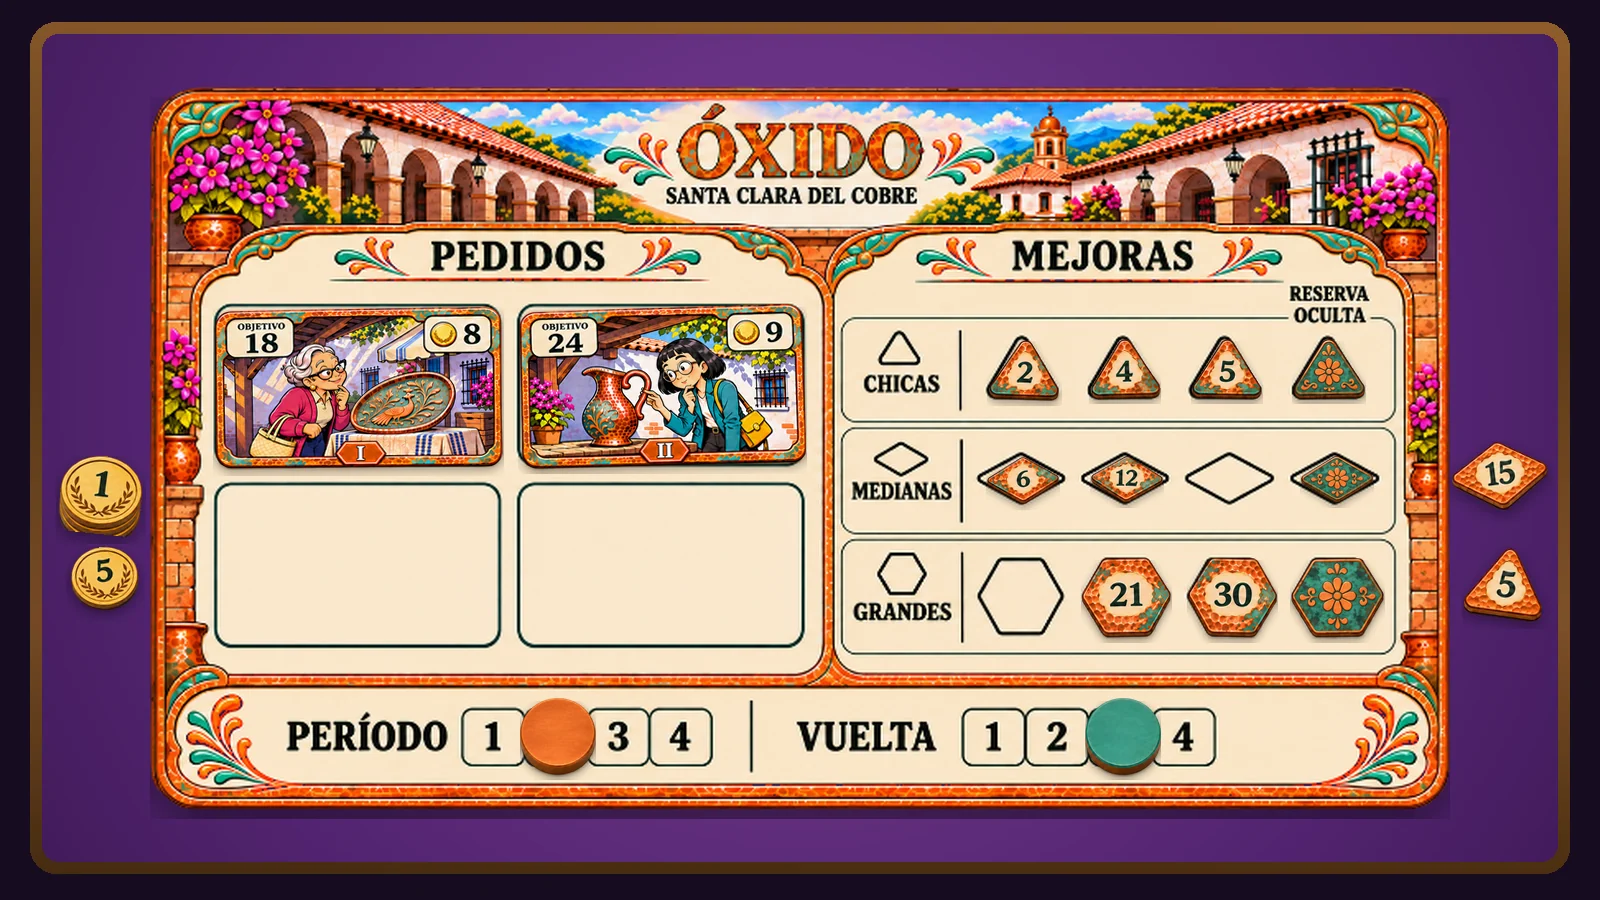
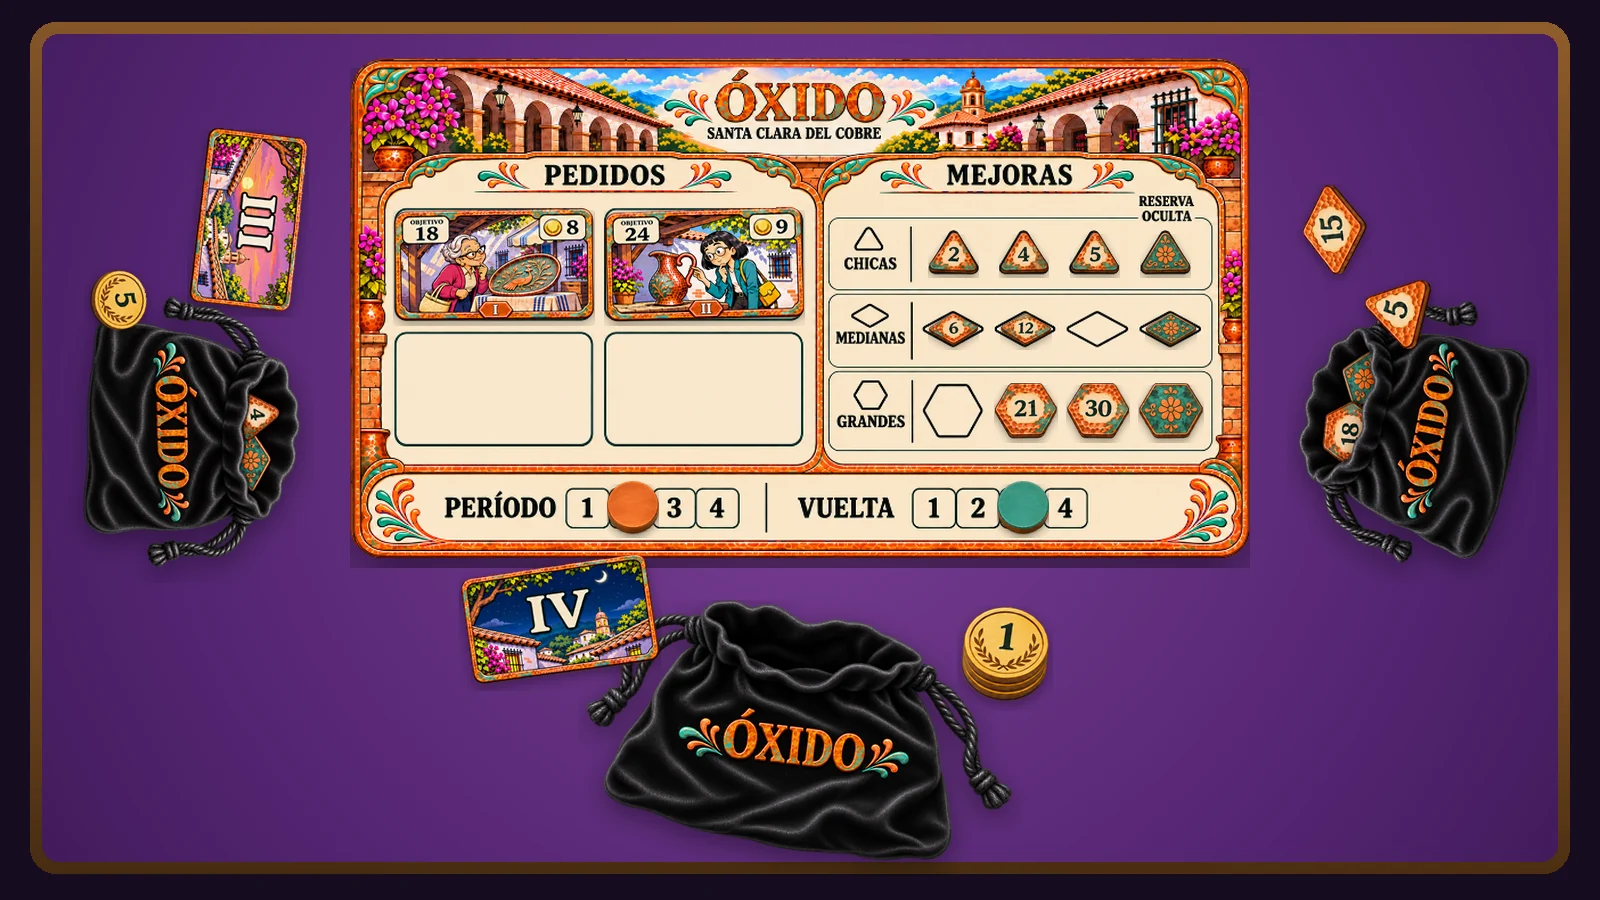
feat(oxido): suma las bolsas, el cómo se juega y fuentes propias
Óxido agrega las Bolsas de Terciopelo (c) y una mesa con tres zonas de
jugador, fotos en los tres pasos y la inspiración en es y en. El título
pasa a Rufina + Literata. En todas las fichas, el paso lleva número y
título en una línea, y la caja de versión dice fijo «Versión Actual».
Se suma docs/PROTOCOLO_PROTO.md.

diff --git a/src/lib/caja-fonts.ts b/src/lib/caja-fonts.ts
@@ -1,3 +1,3 @@
 /** Google Fonts de las cajitas del portafolio. Una hoja, títulos + subtítulos. */
 export const CAJA_FONTS_URL =
-  'https://fonts.googleapis.com/css2?family=Baloo+2:wght@700&family=Bangers&family=Bebas+Neue&family=Bubblegum+Sans&family=Bungee&family=Cardo:wght@700&family=Cinzel:wght@700&family=Cormorant+Garamond:ital,wght@0,700;1,500&family=Fraunces:ital,wght@0,600;1,400&family=Fredoka:wght@600&family=IM+Fell+English:ital@0;1&family=Josefin+Sans:ital,wght@0,700;1,400&family=Lora:wght@700&family=Nunito:ital,wght@0,600;0,700;0,800;1,500;1,600&family=Oswald:ital,wght@1,400&family=Quicksand:wght@700&family=Raleway:wght@700&family=Patrick+Hand&family=Playfair+Display:ital,wght@0,700;1,400&family=Shantell+Sans:ital,wght@0,700;1,400&family=Shippori+Mincho:wght@700&family=Spectral:wght@700&family=Yeseva+One&family=Zen+Maru+Gothic:wght@500&display=swap';
+  'https://fonts.googleapis.com/css2?family=Baloo+2:wght@700&family=Bangers&family=Bebas+Neue&family=Bubblegum+Sans&family=Bungee&family=Cardo:wght@700&family=Cinzel:wght@700&family=Cormorant+Garamond:ital,wght@0,700;1,500&family=Fraunces:ital,wght@0,600;1,400&family=Fredoka:wght@600&family=IM+Fell+English:ital@0;1&family=Josefin+Sans:ital,wght@0,700;1,400&family=Literata:ital,wght@1,400;1,600&family=Lora:wght@700&family=Nunito:ital,wght@0,600;0,700;0,800;1,500;1,600&family=Oswald:ital,wght@1,400&family=Quicksand:wght@700&family=Raleway:wght@700&family=Rufina:wght@700&family=Patrick+Hand&family=Playfair+Display:ital,wght@0,700;1,400&family=Shantell+Sans:ital,wght@0,700;1,400&family=Shippori+Mincho:wght@700&family=Spectral:wght@700&family=Yeseva+One&family=Zen+Maru+Gothic:wght@500&display=swap';

diff --git a/src/i18n/fichas/ficha.ts b/src/i18n/fichas/ficha.ts
@@ -15,8 +15,7 @@ export const ficha = {
     filesTitle: 'Archivos',
     bgg: 'BoardGameGeek',
     devTitle: 'En qué estamos',
-    devVersion: 'Versión',
-    devAdjusting: 'Ajustando',
+    devVersion: 'Versión Actual',
     devNext: 'Próximas pruebas',
     awards: 'Premios y reconocimientos',
     awardLink: 'Mira el premio',
@@ -46,8 +45,7 @@ export const ficha = {
     filesTitle: 'Files',
     bgg: 'BoardGameGeek',
     devTitle: 'Where we are',
-    devVersion: 'Version',
-    devAdjusting: 'Tuning',
+    devVersion: 'Current version',
     devNext: 'Next playtests',
     awards: 'Awards and recognition',
     awardLink: 'See award',

diff --git a/src/styles/ficha.css b/src/styles/ficha.css
@@ -604,26 +604,23 @@ body.ficha-page[data-on-primary="tinta"] {
 }
 
 .ficha-step-num {
-  display: block;
-  margin-bottom: .25rem;
-  color: var(--ficha-muted);
-  font-size: .78rem;
-  font-weight: 800;
+  margin-right: .35em;
 }
 
 .ficha-step h3 {
-  margin: 0 0 .4rem;
+  margin: 0 0 .45rem;
   font-family: var(--ficha-title-font);
-  font-size: 1.08rem;
+  font-size: 1.22rem;
   font-weight: 700;
   letter-spacing: -.02em;
+  line-height: 1.2;
   color: var(--ficha-navy);
 }
 
 .ficha-step p {
   margin: 0;
   color: var(--ficha-dim);
-  font-size: .86rem;
+  font-size: .98rem;
   line-height: 1.5;
 }
 

diff --git a/src/lib/ficha-review.ts b/src/lib/ficha-review.ts
@@ -62,7 +62,7 @@ type Slot = Array<string | number>;
 function slotText(ficha: FichaContent, parts: Slot, locale: Lang): string | undefined {
   const ui = fichaCopy[locale];
   const [kind, index, field] = parts;
-  if (kind === 'devVersionTitle') return ficha.version ? `${ui.devVersion} ${ficha.version}` : ui.devAdjusting;
+  if (kind === 'devVersionTitle') return ui.devVersion;
   if (kind === 'devAdjusting') return ficha.adjusting;
   if (kind === 'devNextTitle') return ui.devNext;
   if (kind === 'devNextBody') return ficha.nextPlaytests;

diff --git a/src/content/games/oxido.md b/src/content/games/oxido.md
@@ -62,8 +62,8 @@ palette:
   - '#A7461E'
   - '#1C3831'
 fichaMode: light
-titleFont: Fredoka, sans-serif
-taglineFont: Nunito, sans-serif
+titleFont: Rufina, serif
+taglineFont: Literata, serif
 bodyFont: Nunito, sans-serif
 bodyColor: ''
 mutedColor: ''
@@ -81,8 +81,8 @@ conceptos:
   - Portada de surrealismo fotográfico donde una mina se convierte en cuenco; web en verdes de pátina con acentos naranja cobre. El prototipo conserva humor gráfico de tinta expresiva y personajes consistentes de gestos amables.
   - Construcción de bolsa, extracción táctil por tamaño, combinación de valores para encargos compartidos y mejora de muestras entre períodos.
 imageCaption: Arte conceptual · Del mineral al oficio
-pitchTitle: Un taller entre el brillo y la pátina
-pitch: Óxido se inspira en los patios, talleres y comercios de Santa Clara del Cobre. Cada persona lleva su propio taller, pero los clientes están a la vista de todos. Durante cuatro eras, representadas por la mañana, el mediodía, el atardecer y la noche, decides qué muestras preparar, qué encargos entregar y cuánto reinvertir. Al cierre, gana quien haya reunido más dinero.
+pitchTitle: El juego Óxido nace porque me llamó la atención la palabra, y comencé a explorar la forma en que los metales generan pátinas y cómo este proceso funciona como mecánica.
+pitch: Naturalmente, quise mostrar el proceso artesanal de trabajar el cobre y crear diseños usando la pátina como elemento visual. El mercado de compradores y pedidos es una forma sencilla de explicar la competencia entre los jugadores y la decisión de refinar el producto pero quizás perder una venta, o vender rápido pero sacrificando calidad.
 buyUrl: ''
 ctaHref: ''
 rulesUrl: ''
@@ -95,24 +95,27 @@ nextPlaytests: La primera configuración de prueba está preparada para dos pers
 howTo:
   - title: Prepara tus muestras
     body: Elige al tacto un tamaño de ficha dentro de tu bolsa y revela su valor. Los triángulos, rombos y hexágonos distinguen las tres categorías. Las muestras extraídas quedan disponibles en tu taller para combinarlas después.
-    image: ''
-    imageAlt: ''
+    image: /assets/oxido-paso-muestras.webp?v=1
+    imageAlt: Una mano saca un triángulo 5 de la bolsa de Óxido; al lado quedan un 2, un rombo 15 y un hexágono 24.
+    imageAltEn: A hand draws a triangle 5 from the Óxido bag; a 2, a diamond 15, and a hexagon 24 sit beside it.
     bodyEn: Choose a token size by touch inside your bag and reveal its value. Triangles, rhombuses, and hexagons distinguish the three categories. Drawn samples stay available in your workshop to combine later.
     titleEn: Prepare your samples
   - title: Encuentra la combinación
     body: Suma los valores de las muestras que quieras usar para un encargo visible. Cuanto más te acerques al objetivo, mejor cobras. Puedes entregar sin acertar exactamente, pero otro taller puede atender al cliente antes que tú.
-    image: ''
-    imageAlt: ''
+    image: /assets/oxido-paso-combinacion.webp?v=2
+    imageAlt: Encargo de objetivo 18 junto a un rombo 15 y un triángulo 3, con monedas de 1, 5 y 10.
+    imageAltEn: An order with a target of 18 beside a diamond 15 and a triangle 3, with coins of 1, 5, and 10.
     bodyEn: Add the values of whichever samples you want to use for a visible order. The closer you get to the target, the more you earn. You can deliver without an exact match, but another workshop may serve the customer first.
     titleEn: Find your combination
   - title: Invierte en el próximo período
     body: Las muestras gastadas esperan fuera de la bolsa hasta el próximo período. Paga para sustituirlas por otras de la misma categoría y preparar mejores combinaciones. Decide cuánto mejorar y cuánto dinero conservar para el final.
-    image: ''
-    imageAlt: ''
+    image: /assets/oxido-paso-periodo.webp?v=2
+    imageAlt: Una mano deja un triángulo 3 en el mercado de mejoras; la otra sostiene monedas de 1, y en la mesa hay un 5 y monedas de 1, 5 y 10.
+    imageAltEn: A hand places a triangle 3 on the upgrade market; the other holds coins of 1, with a 5 and coins of 1, 5, and 10 on the table.
     bodyEn: Spent samples wait outside your bag until the next period. Pay to replace them with others in the same category and prepare better combinations. Decide how much to improve and how much money to keep for the end.
     titleEn: Invest in the next period
-componentsPhoto: /assets/oxido-mesa-montaje.webp?v=5
-componentsPhotoAlt: 'Partida de Óxido sobre paño violeta: dos pedidos en el tablero, mejoras en el mercado y marcadores en el período 2 y la vuelta 3.'
+componentsPhoto: /assets/oxido-mesa-montaje.webp?v=7
+componentsPhotoAlt: 'Partida de Óxido sobre paño violeta: el tablero al centro y tres bolsas de jugador, con cartas y fichas sueltas.'
 componentsNote: ''
 components:
   - qty: '1'
@@ -157,10 +160,17 @@ components:
     image: /assets/oxido-comp-marcadores.webp?v=2
     imageAlt: 'Marcadores de período y vuelta de Óxido sobre paño violeta: uno de cobre y uno turquesa.'
     imageAltEn: 'Óxido period and turn markers on violet felt: one copper and one turquoise.'
+  - qty: '4'
+    name: Bolsas de Terciopelo (c)
+    nameEn: Velvet Bags (c)
+    icon: token-bag
+    image: /assets/oxido-comp-bolsas.webp?v=2
+    imageAlt: 'Cuatro bolsas de terciopelo negro de Óxido sobre paño violeta: dos vacías y dos con fichas asomando.'
+    imageAltEn: 'Four black Óxido velvet bags on violet felt: two empty, and two with tokens peeking out.'
 resources: []
 credits: Óxido · Diseño de juego y dirección visual · Estudio Alpargatas
 adjustingEn: The core rules are defined and the visual identity has a clear direction. We are refining the relationship between sample values, payments, and upgrades. The scenes and components shown here are concept proposals; the final component list remains open.
-componentsPhotoAltEn: 'Óxido game on violet felt: two orders on the board, upgrades in the market, and markers on period 2 and turn 3.'
+componentsPhotoAltEn: 'Óxido game on violet felt: the board in the center and three player bags, with cards and loose tokens.'
 creditsEn: Óxido · Game design and visual direction · Estudio Alpargatas
 descriptionEn: Combine copper samples, fill orders before your rivals, and improve what comes out of your bag. Precision pays better, but an imperfect delivery can still be a good decision.
 factsEn:
@@ -171,7 +181,7 @@ imageAltEn: An open-pit mine gradually transforms into a chased copper bowl with
 imageCaptionEn: Concept art · From ore to craft
 metaEn: Copper · Orders · Bag building
 nextPlaytestsEn: The first test configuration is prepared for two players. We want to observe competition for orders, the pace of upgrades, and the value of delivering without an exact match. The goal is 2–4 players and 30–45 minute games; both parameters still need validation.
-pitchEn: Óxido draws inspiration from the courtyards, workshops, and shops of Santa Clara del Cobre. Each player runs a workshop, while customers are shared by everyone. Across four eras, represented by morning, midday, sunset, and night, you decide which samples to prepare, which orders to deliver, and how much to reinvest. At the end, the player with the most money wins.
-pitchTitleEn: A workshop between shine and patina
+pitchEn: Naturally, I wanted to show the craft of working copper and of making designs that use patina as a visual element. A market of buyers and orders is a simple way to explain the competition between players, and the choice to refine the product and maybe lose a sale, or to sell fast while sacrificing quality.
+pitchTitleEn: Óxido was born because the word caught my attention, and I started exploring how metals grow a patina and how that process works as a mechanic.
 taglineEn: Copper changes. So does your workshop.
 ---

diff --git a/docs/PROTOCOLO_PROTO.md b/docs/PROTOCOLO_PROTO.md
@@ -1,0 +1,95 @@
+# Protocolo de un proto nuevo
+
+Para cuando entra un juego que todavía no está publicado. La ficha nueva sale solo del CMS: `src/content/games/<keyword>.md`. No se crea `src/pages/juegos/<keyword>/` ni se copia nada desde `/juegos/old/` o `src/i18n/fichas/`.
+
+Keyword: una palabra ASCII en minúsculas (`oxido`, `reloj`). La URL es `/juegos/<keyword>` y `/en/juegos/<keyword>`.
+
+Estado de un proto: `pruebas`, `boceto` o `idea`. `publicado` apaga el bloque «En qué estamos», cambia el CTA a compra y **saca el juego del tarot**.
+
+## Mínimo para que el build no se caiga
+
+Sin estos campos el markdown no entra en la colección:
+
+| Campo | Notas |
+|---|---|
+| `keyword`, `name`, `emoji` | El keyword es el nombre del archivo. |
+| `tagline`, `meta` | El subtítulo se ve en la ficha, el portafolio y el tarot. |
+| `state`, `stateLabel`, `stateOrder`, `date` | |
+| `bg`, `titleColor`, `taglineColor` | Siguen en el CMS. La ficha no los pinta; usa `palette`. |
+| `palette` | Exactamente 4 colores. Ver [PALETAS_FICHA.md](./PALETAS_FICHA.md). |
+| `titleFont` | Familia del título. Ver fuentes, abajo. |
+| `conceptos` | Tres strings: temática, estilo visual, mecánicas. Brief de imágenes. No se muestra. |
+
+`fichaMode` default `light`. `taglineFont` default Georgia si falta; no dejarlo así en un proto que ya se enseña.
+
+## Mínimo de la ficha
+
+Cada texto visible va en español y en inglés (`*En`). Lo que todavía no está escrito se deja vacío: ver Lorem.
+
+| Bloque | Qué tiene que haber | Qué puede esperar |
+|---|---|---|
+| Héroe | Nombre, subtítulo, estado, arte `concepto-<keyword>.webp` | Edad, duración, jugadores, solo si ya están decididos. La edad no se inventa. |
+| En qué estamos | Párrafos `adjusting` y `nextPlaytests` | Los títulos son fijos: **Versión Actual** y **Próximas pruebas**. El número de `version` no se muestra. |
+| Inspiración | `pitchTitle` + `pitch` | Los dos, o ninguno. Con uno solo la franja no aparece. |
+| Cómo se juega | Hasta 3 pasos, título y cuerpo | La plantilla pinta solo los tres primeros. |
+| Componentes | Cantidad, nombre ES/EN, icono de `comp-icons.ts` | Mesa y detalle cuando haya arte. El `(c)` en el nombre marca arte conceptual, en los dos idiomas. |
+| Galería | Fotos de mesa o de concepto, con pie | |
+| Archivos | | Manual e imprimible van aparte, cada uno con URL ES y URL EN. No hay fallback de un idioma al otro. |
+| Cocreación | | El pill sale solo si hay nombre y URL. |
+
+Premios vacíos están bien: en Revisiones se lee «Listo · 0».
+
+El pie del arte conceptual es común a todas las fichas («Arte conceptual · Exploración visual»). No se cambia por juego.
+
+## Texto que todavía no existe
+
+No se escribe copy de relleno que parezca definitivo. Un hueco vacío lo tapa la plantilla con Lorem ipsum.
+
+Un texto nuevo y no vacío se muestra tal cual, y en Revisiones esa celda puede pasar a Listo si todos los huecos de la columna están así en los dos idiomas. Por eso el dummy no se tipea: se deja el campo en blanco.
+
+No regenerar `src/lib/ficha-lorem-baseline.ts`. Esa foto es la que decide si un texto viejo sigue tapado.
+
+## Imágenes
+
+WebP, calidad ~86. Al reemplazar una que ya estaba publicada, subir `?v=` solo en esa URL.
+
+| Uso | Export | Cómo entra en la página |
+|---|---|---|
+| Arte conceptual, héroe y portafolio | **1200×800** (3:2) | `public/assets/concepto-<keyword>.webp`. El campo `image` del CMS es el del portafolio; el héroe de la ficha usa siempre el archivo `concepto-`. |
+| Cómo se juega | **1200×900** (4:3) | `howTo[].image`. El marco recorta con `object-fit: cover`. |
+| Mesa de componentes | **1600×900** (16:9) | `componentsPhoto`. Partida en curso, no el setup inicial. Riel de madera y fieltro del juego. Gramática en [MONTAJES.md](./MONTAJES.md). |
+| Detalle de un componente | **1600×900** (16:9) | `components[].image`. Mismo fieltro, a sangre, sin riel. |
+| Galería | La proporción del arte | `fotos`. Se muestra entera (`contain`), sin recorte. Tope de alto `min(85vh, 52rem)`. |
+| Icono de componente | El set existente | Slug en `components[].icon`. Sin icono cae en `tokens-stack`. |
+
+## Fuentes
+
+El título no repite la familia de otro juego. El cuerpo sigue en Nunito, salvo una excepción justificada (hoy solo Amateurasu).
+
+1. Mirar la tabla de [FUENTES_JUEGOS.md](./FUENTES_JUEGOS.md).
+2. Si la familia no está en `src/lib/caja-fonts.ts`, sumarla a `CAJA_FONTS_URL` con el peso que la ficha usa (el título va en 700).
+3. Anotar el par nuevo en esa tabla, en el mismo cambio.
+
+## Revisiones
+
+`/revisiones` no está en el menú y lleva `noindex`. La fila no se agrega a mano: aparece al existir el markdown.
+
+Todo lo que no se aprobó queda Pendiente. No se marca Listo en código para «salir del paso». Una celda pasa a Listo cuando el texto ya no está bajo Lorem en español y en inglés, o cuando las imágenes de ese bloque están en la lista que Arturo dio por cerrada.
+
+## Tarot
+
+La portada no crea una carta nueva. Los 22 arcanos ya están. Un proto entra en la recomendación así:
+
+1. `state` distinto de `publicado`. Un publicado nunca se recomienda, aunque figure en una carta.
+2. El keyword se agrega a `games` de los arcanos que le hagan sentido, en `src/lib/tarot.ts`. Cada carta tiene tres afinidades: la primera suma 3, la segunda 2, la tercera 1. Las tres cartas de la tirada cuentan.
+3. Si el keyword no está en ningún arcano, la tirada no lo elige.
+
+No hace falta arte de tarot por juego. Las cartas son las de `public/assets/tarot/` (600×900). Detalle en [TAROT.md](./TAROT.md).
+
+El portafolio lista solo con que el markdown exista. El campo `home` (`featured`, `proto`, `none`) se guarda, pero la portada actual no lo usa para armar una fila.
+
+## Al cerrar
+
+- `npm run build` incluye `/juegos/<keyword>` y `/en/juegos/<keyword>`.
+- Mirar la ficha en local: http://127.0.0.1:4321/juegos/<keyword>
+- No hacer deploy. Subir a `main` publica producción.

diff --git a/docs/FUENTES_JUEGOS.md b/docs/FUENTES_JUEGOS.md
@@ -4,23 +4,24 @@ No copiamos pareos de [Fontpair](https://fontpair.co/all) uno a uno: casi nunca 
 
 ## Reglas de pareo
 
-1. **Cuerpo (`bodyFont`)** — casi siempre **Nunito** (legible, neutral). Excepciones: juego JP → **Zen Maru Gothic** (Amateurasu).
-2. **Display / cartoon / condensed** (Bungee, Bubblegum, Fredoka, Baloo 2, Bebas)  
+1. **El título no repite la familia de otro juego.** Antes de elegir, mirar la tabla de abajo. El tagline puede compartir Nunito o Cormorant; el título, no.
+2. **Cuerpo (`bodyFont`)** — casi siempre **Nunito** (legible, neutral). Excepciones: juego JP → **Zen Maru Gothic** (Amateurasu).
+3. **Display / cartoon / condensed** (Bungee, Bubblegum, Fredoka, Baloo 2, Bebas)  
    - Tagline: **Oswald** si el título es apretado/impacto; si no, **Nunito**.  
    - Cuerpo: Nunito.
-3. **Serif display / editorial** (Playfair, Yeseva, Cinzel, Cormorant título)  
+4. **Serif display / editorial** (Playfair, Yeseva, Cinzel, Cormorant título)  
    - Tagline: **Cormorant Garamond** (misma vibra editorial, más fino).  
    - Cuerpo: Nunito.
-4. **Serif texto** (Spectral, Lora, Cardo, Fraunces)  
+5. **Serif texto** (Spectral, Lora, Cardo, Fraunces)  
    - Tagline: misma familia **o** Cormorant si el título ya es “text serif” (Spectral, Cardo).  
    - Cuerpo: Nunito.
-5. **Sans geométrico / humanista título** (Raleway, Josefin, Quicksand)  
+6. **Sans geométrico / humanista título** (Raleway, Josefin, Quicksand)  
    - Tagline: Cormorant (contraste serif) o Nunito (stack limpio).  
    - Cuerpo: Nunito.
-6. **Heritage / manuscrito** (IM Fell, Shantell)  
+7. **Heritage / manuscrito** (IM Fell, Shantell)  
    - Tagline: **Josefin Sans** (Fell) o **Patrick Hand** (doodle / Evoluciona).  
    - Cuerpo: Nunito.
-7. **JP** — Shippori Mincho + Zen Maru (tagline y cuerpo).
+8. **JP** — Shippori Mincho + Zen Maru (tagline y cuerpo).
 
 ## Tabla por keyword
 
@@ -40,7 +41,7 @@ No copiamos pareos de [Fontpair](https://fontpair.co/all) uno a uno: casi nunca 
 | mantas | Josefin Sans | Nunito | Nunito |
 | ninive | Cormorant Garamond | Cormorant Garamond | Nunito |
 | nudis | Lora | Lora | Nunito |
-| oxido | Fredoka | Nunito | Nunito |
+| oxido | Rufina | Literata | Nunito |
 | palomas | Bebas Neue | Oswald | Nunito |
 | pavoneo | Playfair Display | Cormorant Garamond | Nunito |
 | piramisu | Yeseva One | Cormorant Garamond | Nunito |

diff --git a/docs/MONTAJES.md b/docs/MONTAJES.md
@@ -95,8 +95,8 @@ Misma gramática y mismo fieltro que Canes: cuatro jugadores, mazo, descarte en 
 | Nínive | `ninive-mesa-montaje.webp?v=4` | palacio, segundo jugador |
 | Letrados | `letrados-mesa-montaje.webp?v=3` | letras `?v=4`; torres de 4, manos de 2, esquinas redondas; el detalle va sin riel |
 | Carcinogenial | `carcinogenial-mesa-montaje.webp?v=5` | cartas `?v=3`, acción, inyección, ayuda |
-| Óxido | `oxido-mesa-montaje.webp?v=5` | tablero `?v=3`, pedidos, iniciales, mejoradas, dinero, marcadores `?v=2` |
+| Óxido | `oxido-mesa-montaje.webp?v=7` | tablero `?v=3`, pedidos, iniciales, mejoradas, dinero, marcadores `?v=2`, bolsas `?v=2` |
 
 Evoluciona tiene conteos en el overlay (97 / 4 / 4 / 2) y todavía no tiene montaje.
 
-Óxido salió de PNG ya recortados (`~/Downloads/oxido-componentes-sin-fondo-1600x900`). La mesa usa el tablero ancho: los huecos de pedido y los rombos calzan con la pieza. Pedidos I y II ocupan el hueco, el mercado va a medias y la columna de reserva oculta muestra los reversos con pátina. Marcador de período en el 2 y el de vuelta en el 3. Dinero y muestras 5 y 15 a los costados. El detalle de cada componente va sobre el mismo violeta, sin riel.
+Óxido salió de PNG ya recortados (`~/Downloads/oxido-componentes-sin-fondo-1600x900`). La mesa usa el tablero ancho: los huecos de pedido y los rombos calzan con la pieza. Pedidos I y II ocupan el hueco, el mercado va a medias y la columna de reserva oculta muestra los reversos con pátina. Marcador de período en el 2 y el de vuelta en el 3. Alrededor van tres bolsas surtidas, cada una con carta o fichas sueltas, como zona de jugador. El detalle de las bolsas muestra las cuatro, dos vacías y dos con fichas. El resto de los detalles va sobre el mismo violeta, sin riel.

diff --git a/docs/FICHAS.md b/docs/FICHAS.md
@@ -73,6 +73,8 @@ Viven en `src/styles/global.css` y se repiten en `ficha.css` donde aplique.
 
 ## Receta para un juego nuevo
 
+**Protocolo de un proto nuevo** (mínimo, imágenes, lorem, revisiones, tarot): [PROTOCOLO_PROTO.md](./PROTOCOLO_PROTO.md).
+
 **Plantilla detallada (CMS + componentes):** [FICHA_ESTRUCTURA_EJEMPLO.md](./FICHA_ESTRUCTURA_EJEMPLO.md).
 
 **Montajes de mesa ya acordados (Canes, Mantas, Nínive):** [MONTAJES.md](./MONTAJES.md).
